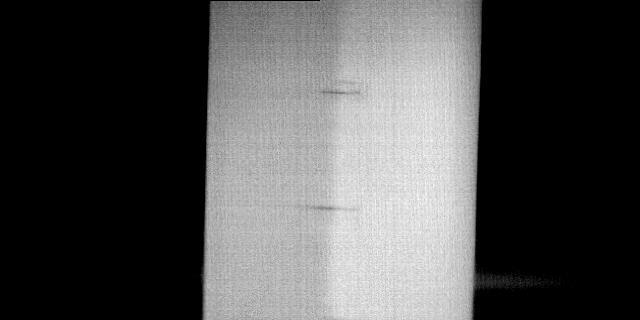
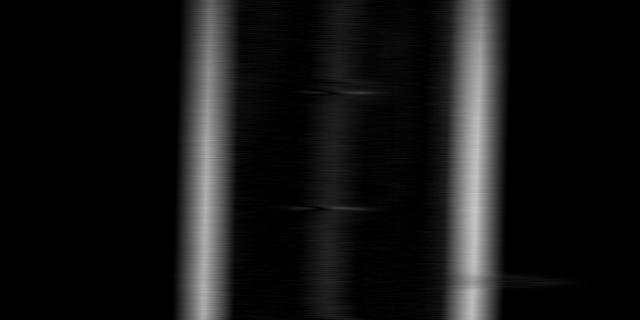
work save

diff --git a/main.py b/main.py
@@ -14,6 +14,7 @@ modification pending
 
 from tools import getarray, savearray
 import numpy as np
+import sys
 
 class datapoint():
     def __init__(self, angle, dim):
@@ -26,6 +27,7 @@ class datapoint():
 
 def getprecession(datapoint):
     def avgdiff(row, reach): #considers [reach] entries preceding and following points in the row to find average of entries
+#diffrow array has max value 255 min value 0 and all int; low level of fineness recorded. consider converting array to floats, this will slow down calcs
         index = 0
         diffrow = np.zeros_like(row) #gen empty array to write to
         for entry in row:
@@ -36,19 +38,29 @@ def getprecession(datapoint):
             following_points = row[index+1:high] #get points before and after point
             avg_pre = np.mean(preceding_points)
             avg_follow = np.mean(following_points) #get averages
-            if avg_pre.size < 10 or avg_follow.size < 10: np.put(diffrow, index, 0) #check that array is suitably large (avoid noise)
-            else: np.put(diffrow, index, abs(avg_pre-avg_follow))    #returns diffrow              
-            index += 1       
+            if preceding_points.size < 10 or following_points.size < 10: np.put(diffrow, index, 0) #check that array is suitably large (avoid noise)
+            else: np.put(diffrow, index, abs(avg_pre-avg_follow))    #returns diffrow; only int are recorded, floats are unnecessarily slow           
+            index += 1
         return(diffrow)
+    print("Generating difference array for", datapoint.name, "deg AoA", datapoint.dim, "case")
     array = getarray(datapoint.name, datapoint.dim) #initialise array
     crop = 80 #number of pixels removed from top and bottom of image (crop). number hard coded
     array = array[crop:array.shape[0]-crop] #crops array to desired dimension
-    diffarray = array #copies initial array to new array for modification
+    
+    reach = 30 #reach concerns the number of pixels considered in positive and negative direction
+    diffarray = np.zeros_like(array) #copies initial array to new array for modification
+    
+    #generates new array composed of the difference between the average of 30 preceding and following entries
+    index = 0
+    for row in array:
+        diffarray[index] = avgdiff(row, reach)#gets diffrow, writes to np row
+        index += 1 
+            
+    #refine edges; narrow down to one leading edge, one trailing edge, and transition.
+    def refineedge(row, reach)
     index = 0
     for row in diffarray:
-        np.put(diffarray, index, avgdiff(row, 30)) #gets diffrow, writes to np row. using reach (0.5range) of 30 px
-        index += 1
-    #TROUBLESHOOT; DATA IS NOT CHANGING
+        diffarray[index] = 1
     savearray(diffarray, 'test', datapoint.name, datapoint.dim)    
             
     return()
